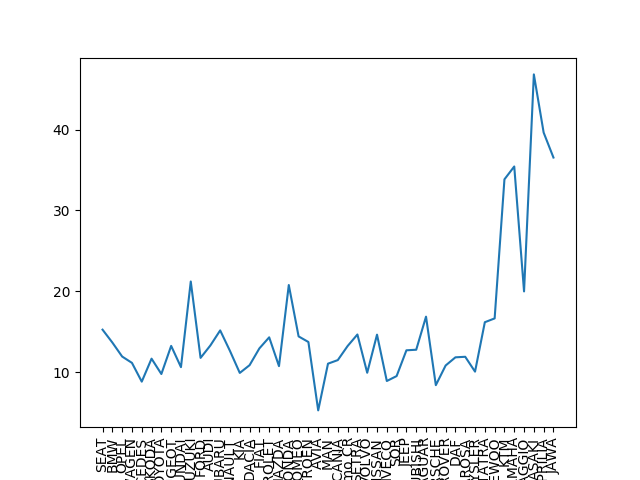
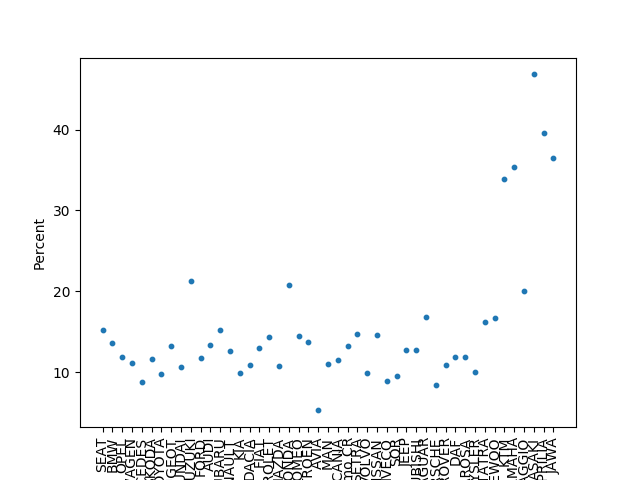
solved graph issue

diff --git a/panda.py b/panda.py
@@ -35,9 +35,11 @@ def tram_fatal_station(frame):
     
 #pátý úkol
 def car_brands_graph(frame):
+    x_list = []
+    y_list = []
+
     brands_unique = frame['vyrobni_znacka_motoroveho_vozidla'].unique()
     count = 0
-    grafframe = pd.DataFrame(columns = ['vyrobni_znacka_motoroveho_vozidla', 'percent'])
     for brand in brands_unique:
         if brand == 0:
             continue
@@ -46,18 +48,22 @@ def car_brands_graph(frame):
             zatacka = len(frame[(frame['vyrobni_znacka_motoroveho_vozidla'] == brand) & (frame['smerove_pomery'] == 3)])
             brand_name = explanations.decode_key['vyrobni_znacka_motoroveho_vozidla'][brand]
             percent = (zatacka / size) * 100
-            grafframe.loc[count] = [brand_name, percent]
+            x_list.append(brand_name)
+            y_list.append(percent)
             count += 1
     x = list(range(count))
-    matplotlib.pyplot.xticks(x, grafframe['vyrobni_znacka_motoroveho_vozidla'], rotation='vertical')
-    matplotlib.pyplot.plot(grafframe['vyrobni_znacka_motoroveho_vozidla'], grafframe['percent'])
+
+    matplotlib.pyplot.scatter(x_list, y_list, s=10)
+    matplotlib.pyplot.xticks(x, x_list, rotation='vertical')
+    matplotlib.pyplot.xlabel("Brand")
+    matplotlib.pyplot.ylabel("Percent")
     matplotlib.pyplot.savefig('graph.png')
+
 
 def proces_data():
     list_of_frames = []
     for key in explanations.file_names:
         df = pd.read_csv('data/' + key, encoding='iso-8859-2', sep=';', header=None)
-        print(explanations.file_names[key])
         df.columns = explanations.main_columns
         df['kraj'] = explanations.file_names[key]
         list_of_frames.append(df)
